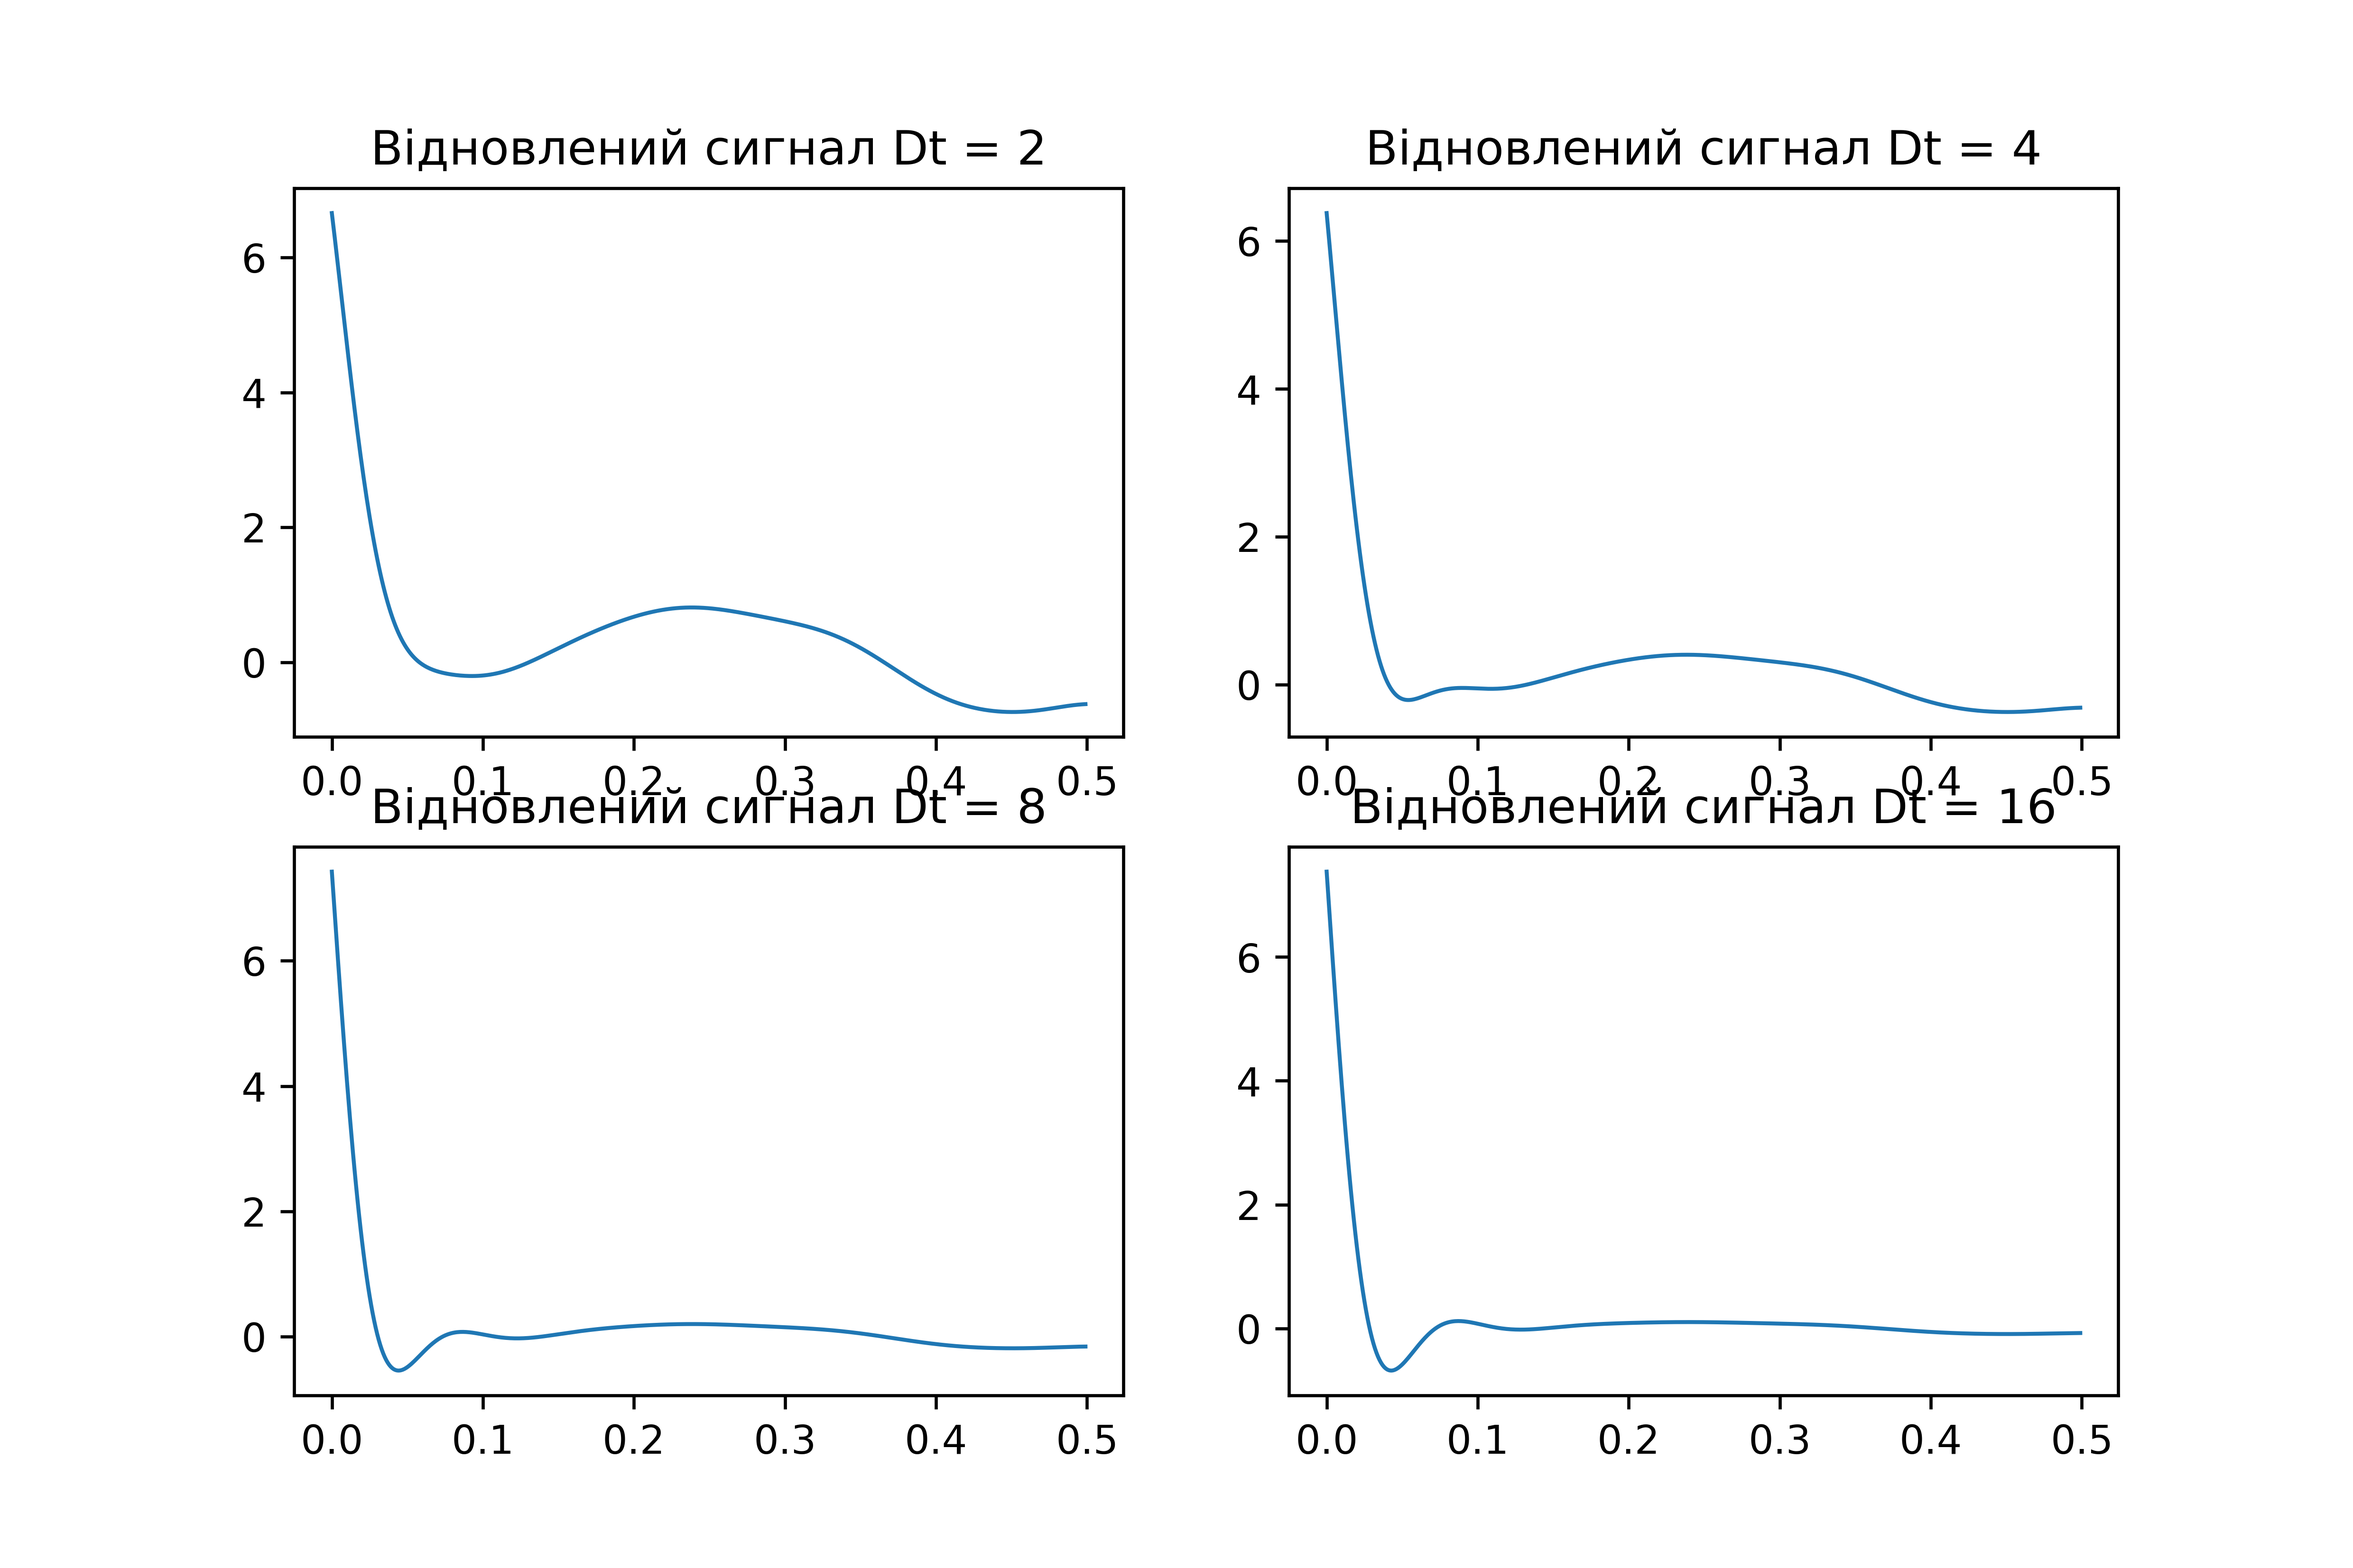
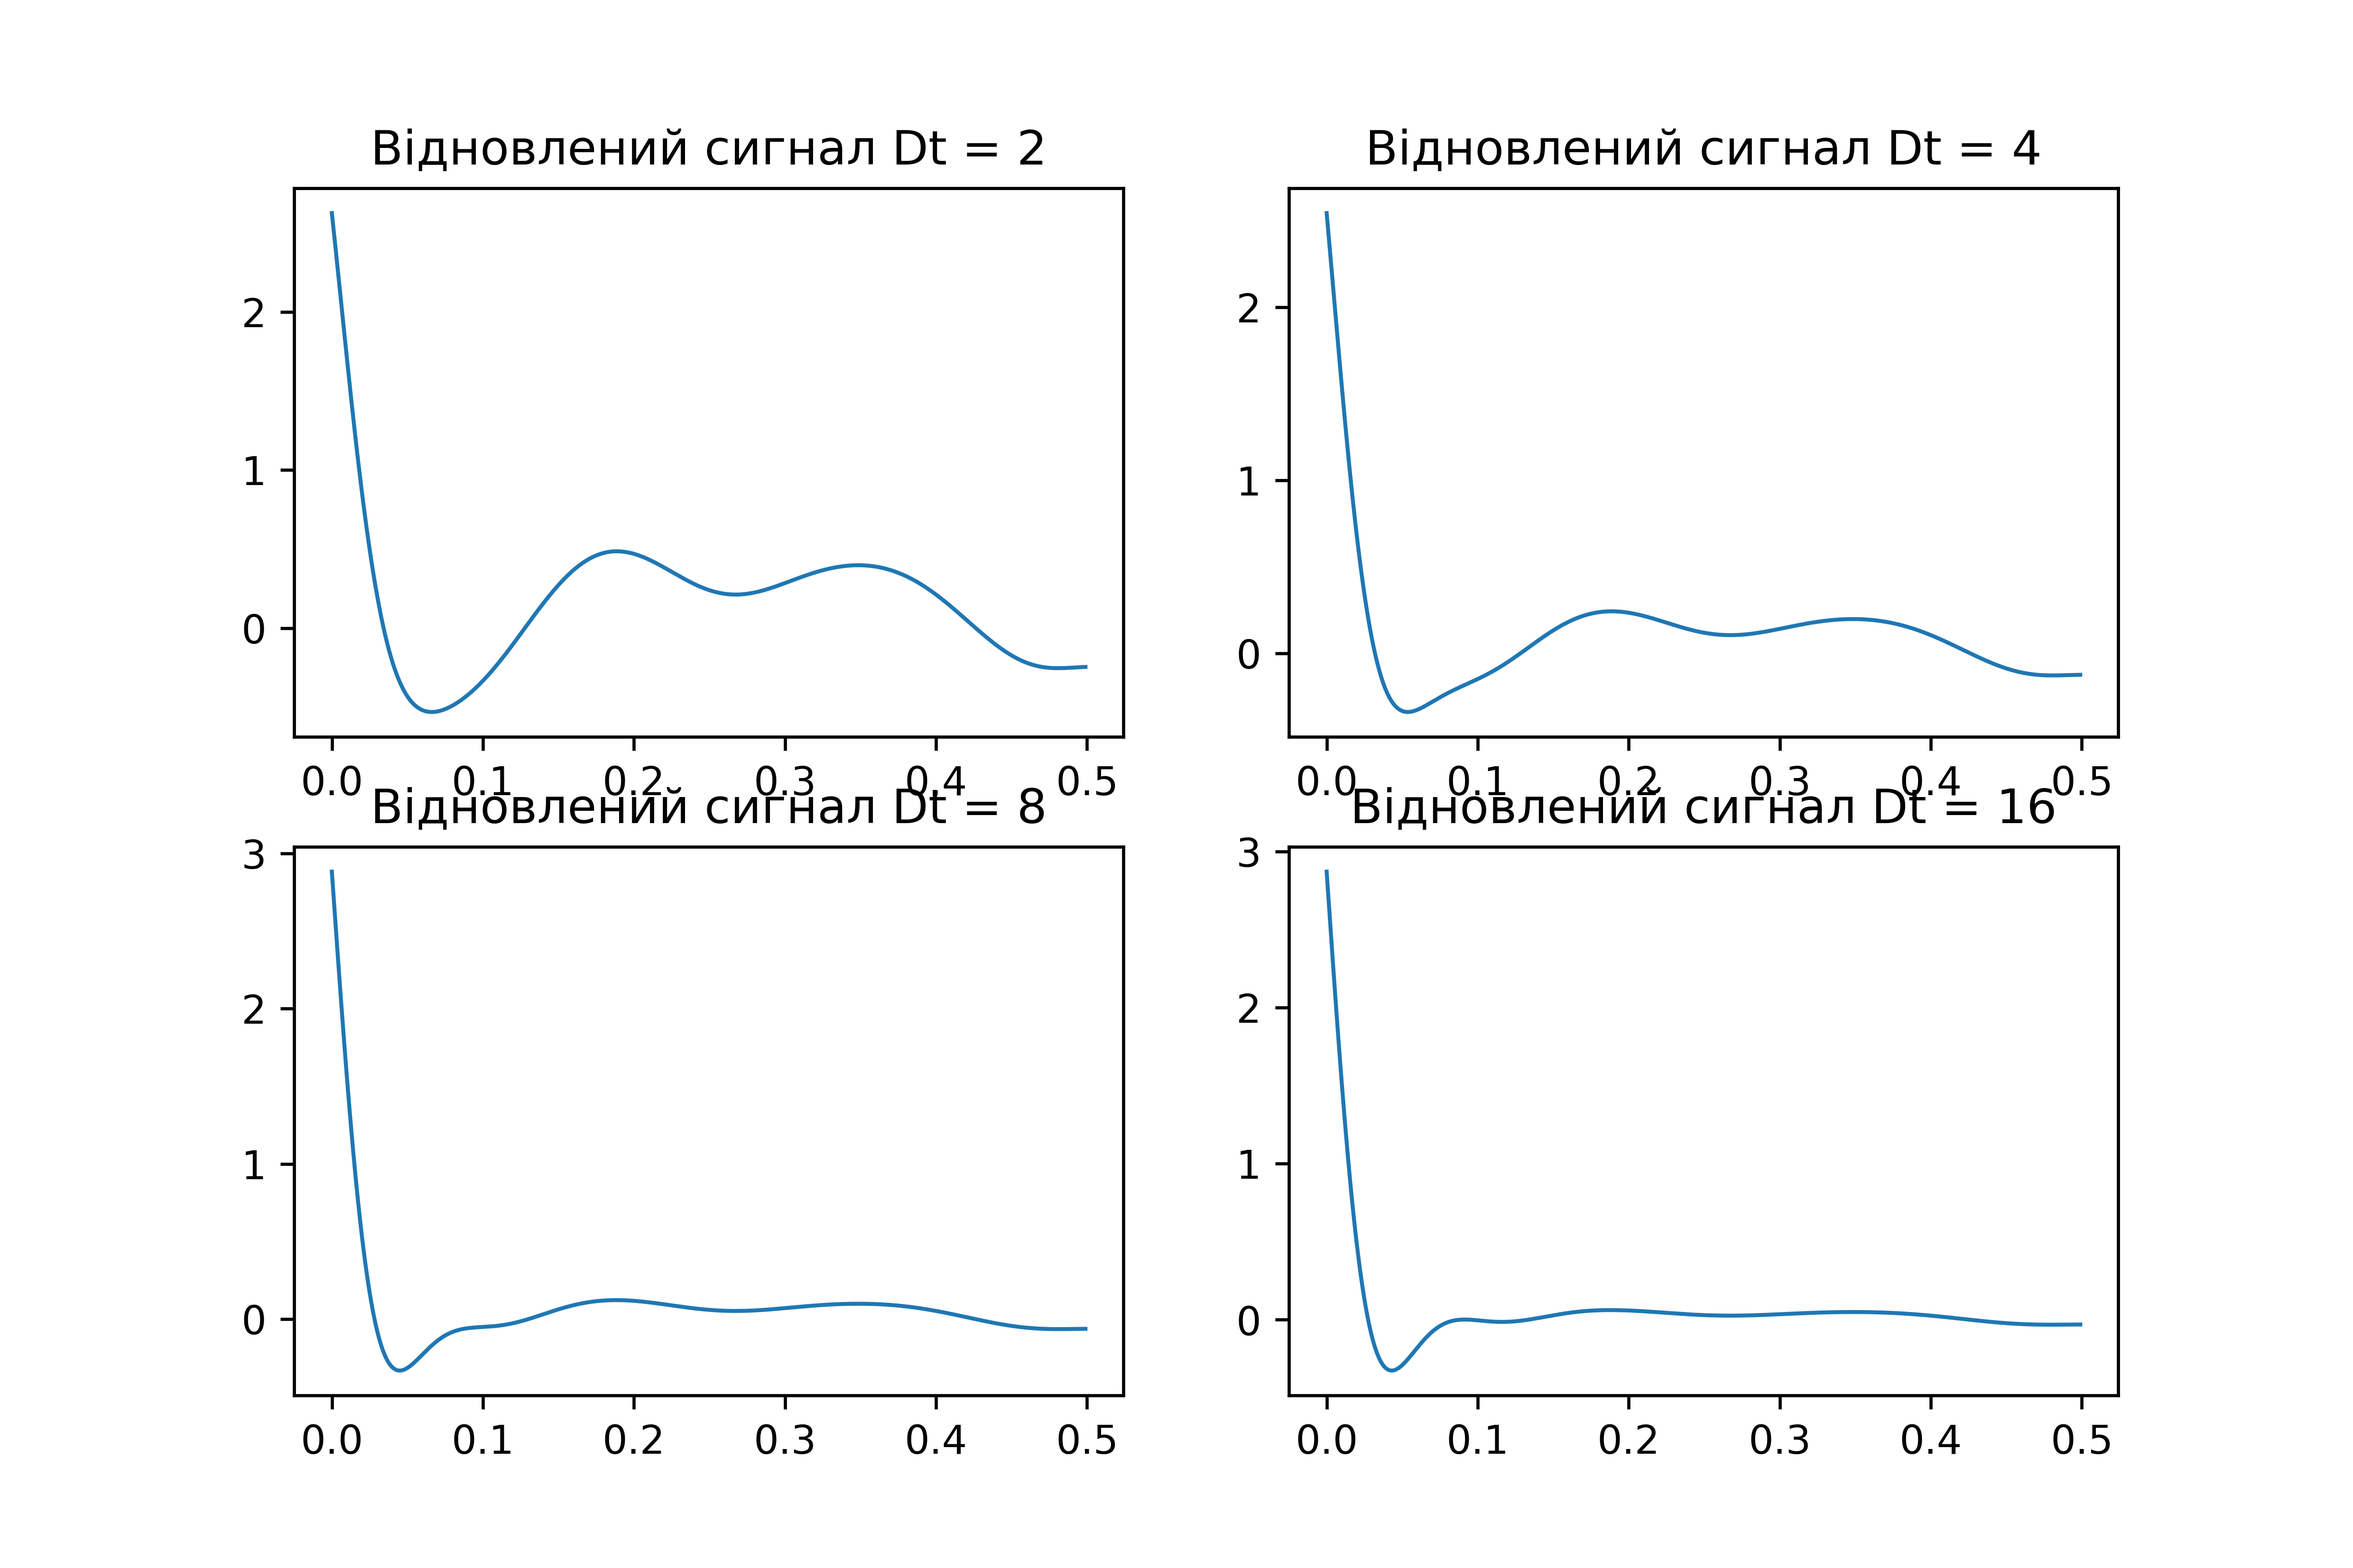
ignal processing, 3

diff --git a/SignalProcessing/figures/SignalProcessing.py b/SignalProcessing/figures/SignalProcessing.py
@@ -1,23 +1,19 @@
-import random
-from scipy import signal, fft
 import matplotlib
-import numpy
-import scipy
-import matplotlib.pyplot as plt
 matplotlib.use('TkAgg')
 import numpy as np
-import scipy.signal as signal
-import scipy.fft as fft
 import matplotlib.pyplot as plt
+from scipy import signal, fft
 
-# Параметры
-n = 500  # Длина сигнала
-Fs = 1000  # Частота дискретизации
-F_max = 5  # Максимальная частота
-Dt_values = [2, 4, 8, 16]  # Кроки дискретизации
-F_filter = 12  # Полоса фильтра
+# Параметри
+n = 500  # Довжина сигналу
+Fs = 1000  # Частота дискретизації
+F_max = 5  # Максимальна частота
+Dt_values = [2, 4, 8, 16]  # Кроки дискретизації
+F_filter = 12  # Полоса фільтра
+M_values = [4, 16, 64, 256]  # Рівні квантування
 
-# Генерация случайного сигнала
+# Генерація випадкового сигналу
+np.random.seed(42)
 raw_signal = np.random.normal(0, 10, n)
 w = F_max / (Fs / 2)
 lowpass_filter = signal.butter(3, w, 'low', output='sos')
@@ -28,6 +24,9 @@ discrete_spectrums = []
 restored_signals = []
 errors = []
 SNR_values = []
+quantized_signals = []
+quantization_errors = []
+quantization_SNR = []
 
 for Dt in Dt_values:
         discrete_signal = np.zeros(n)
@@ -35,59 +34,50 @@ for Dt in Dt_values:
                 discrete_signal[i] = filtered_signal[i]
         discrete_signals.append(discrete_signal)
 
-        # Расчет спектра
         spectrum = fft.fft(discrete_signal)
         discrete_spectrums.append(np.abs(fft.fftshift(spectrum)))
 
-        # Фильтрация
         w_norm = F_filter / (Fs / 2)
         filter_params = signal.butter(3, w_norm, 'low', output='sos')
         restored_signal = signal.sosfiltfilt(filter_params, discrete_signal)
         restored_signals.append(restored_signal)
 
-        # Оценка ошибок
         error = restored_signal - filtered_signal
         errors.append(np.var(error))
         SNR_values.append(np.var(filtered_signal) / np.var(error))
 
-# Визуализация дискретизованных сигналов
-fig, ax = plt.subplots(2, 2, figsize=(21 / 2.54, 14 / 2.54))
+# Квантування
+for M in M_values:
+        delta = (np.max(filtered_signal) - np.min(filtered_signal)) / (M - 1)
+        quantized_signal = delta * np.round(filtered_signal / delta)
+        quantized_signals.append(quantized_signal)
+
+        error = quantized_signal - filtered_signal
+        quantization_errors.append(np.var(error))
+        quantization_SNR.append(np.var(filtered_signal) / np.var(error))
+
+# Побудова графіків цифрових сигналів з різними рівнями квантування
+fig, ax = plt.subplots(2, 2, figsize=(14, 10))
 for i in range(2):
         for j in range(2):
                 idx = i * 2 + j
-                ax[i, j].plot(np.arange(n) / Fs, discrete_signals[idx], linewidth=1)
-                ax[i, j].set_title(f'Dt = {Dt_values[idx]}')
-plt.savefig('C:/Users/Евгений/IdeaProjects/TIC_Vansovich_529/SignalProcessing/figures/discrete_signals.png', dpi=600)
+                ax[i, j].plot(np.arange(n), quantized_signals[idx], label=f'M={M_values[idx]}')
+                ax[i, j].set_title(f'Квантування з M={M_values[idx]}')
+                ax[i, j].legend()
+plt.tight_layout()
+plt.savefig('C:/Users/Евгений/IdeaProjects/TIC_Vansovich_529/SignalProcessing/figures/quantized_signals_grid.png', dpi=600)
 
-# Визуализация спектров дискретизованных сигналов
-fig, ax = plt.subplots(2, 2, figsize=(21 / 2.54, 14 / 2.54))
-for i in range(2):
-        for j in range(2):
-                idx = i * 2 + j
-                ax[i, j].plot(np.fft.fftshift(np.fft.fftfreq(n, 1/Fs)), discrete_spectrums[idx], linewidth=1)
-                ax[i, j].set_title(f'Спектр Dt = {Dt_values[idx]}')
-plt.savefig('C:/Users/Евгений/IdeaProjects/TIC_Vansovich_529/SignalProcessing/figures/discrete_spectrums.png', dpi=600)
-
-# Визуализация восстановленных сигналов
-fig, ax = plt.subplots(2, 2, figsize=(21 / 2.54, 14 / 2.54))
-for i in range(2):
-        for j in range(2):
-                idx = i * 2 + j
-                ax[i, j].plot(np.arange(n) / Fs, restored_signals[idx], linewidth=1)
-                ax[i, j].set_title(f'Відновлений сигнал Dt = {Dt_values[idx]}')
-plt.savefig('C:/Users/Евгений/IdeaProjects/TIC_Vansovich_529/SignalProcessing/figures/restored_signals.png', dpi=600)
-
-# График ошибки
 plt.figure(figsize=(10, 5))
-plt.plot(Dt_values, errors, marker='o', linestyle='-')
-plt.xlabel('Крок дискретизації')
-plt.ylabel('Дисперсія похибки')
-plt.savefig('C:/Users/Евгений/IdeaProjects/TIC_Vansovich_529/SignalProcessing/figures/error_variance.png', dpi=600)
+plt.plot(M_values, quantization_errors, marker='o', linestyle='-')
+plt.xlabel('Кількість рівнів M')
+plt.ylabel('Дисперсія помилки')
+plt.title('Залежність дисперсії від рівнів квантування')
+plt.savefig('C:/Users/Евгений/IdeaProjects/TIC_Vansovich_529/SignalProcessing/figures/quantization_error_variance.png', dpi=600)
 
-# График SNR
 plt.figure(figsize=(10, 5))
-plt.plot(Dt_values, SNR_values, marker='o', linestyle='-')
-plt.xlabel('Крок дискретизації')
+plt.plot(M_values, quantization_SNR, marker='o', linestyle='-')
+plt.xlabel('Кількість рівнів M')
 plt.ylabel('Співвідношення сигнал-шум')
-plt.savefig('C:/Users/Евгений/IdeaProjects/TIC_Vansovich_529/SignalProcessing/figures/snr.png', dpi=600)
+plt.title('Залежність SNR від рівнів квантування')
+plt.savefig('C:/Users/Евгений/IdeaProjects/TIC_Vansovich_529/SignalProcessing/figures/quantization_snr.png', dpi=600)
 
